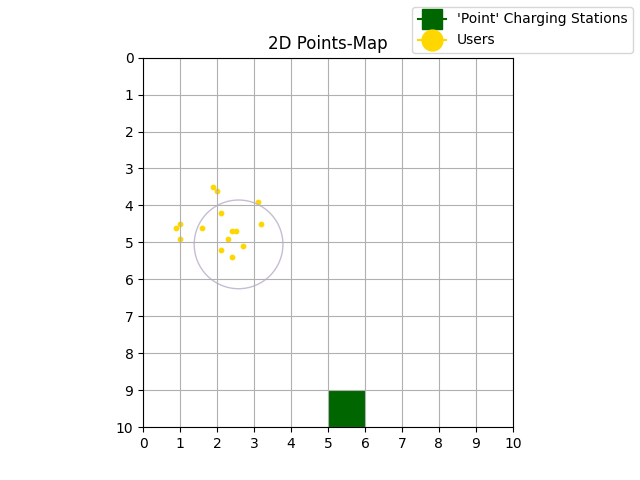
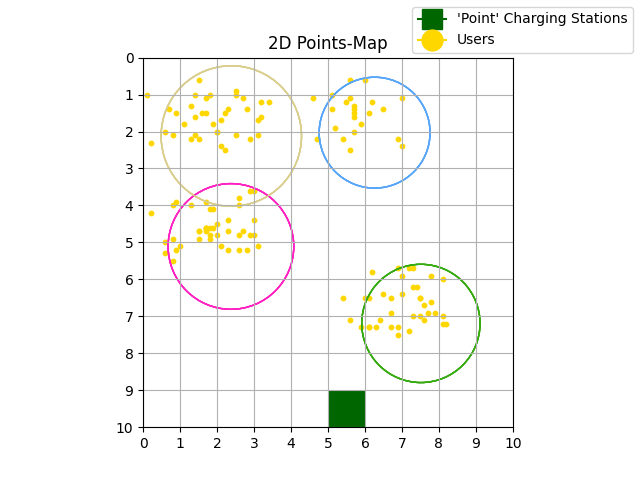
Update

diff --git a/scenario_objects.py b/scenario_objects.py
@@ -1028,7 +1028,7 @@ if __name__ == '__main__':
 
     us = User
     centroids = us.centroids_user_cluster_generation(CENTROIDS_MIN_MAX_COORDS, FIXED_CLUSTERS_NUM) # --> You can change these arguments to get clusters spread out in a different way
-    users_clusters, users_xy = us.spread_users_around_clusters(centroids, 1, 1, 8, 16) # --> # --> You can change these arguments to get users spread out in a different way among clusters; you can change also the MIN and MAX users number per cluster
+    users_clusters, users_xy = us.spread_users_around_clusters(centroids, 1, 1, 10, 50) # --> # --> You can change these arguments to get users spread out in a different way among clusters; you can change also the MIN and MAX users number per cluster
     occurrences = [users_xy.count(user) for user in users_xy]
     users_points_heights = us.users_heights(points_matrix, users_xy)
     n_users = len(users_xy)
@@ -1077,7 +1077,7 @@ if __name__ == '__main__':
     # ______________________________________________________________________________________________________________
 
     print("Scenario created.")
-    print("ABBIAMO ", len(obs_points), "OSTACOLI")
+    print("We Have Created ", len(obs_points), "Obstacles")
     
     # ___________________________________________ Directory Creation and Saving: ___________________________________________
 

diff --git a/my_utils.py b/my_utils.py
@@ -56,7 +56,7 @@ PERC_BATTERY_CHARGED_PER_IT = 20
 BATTERY_CHARGED_PER_IT = round((PERC_BATTERY_CHARGED_PER_IT*FULL_BATTERY_LEVEL)/100)
 #PERC_CONSUMPTION_PER_ITERATION = STEP_REDUCTION_TO_GO_TO_CS
 PERC_BATTERY_TO_GO_TO_CS = int(PERC_CONSUMPTION_PER_ITERATION/4) # --> 4/4 = 1
-N_UAVS = 1
+N_UAVS = 2
 PERC_CONSUMPTION_IF_HOVERING = 2
 
 PROPULSION_BATTERY_CONSUMPTION = 3.33
@@ -338,10 +338,10 @@ DATA_GATHERING = 3
 UAVS_SERVICES = [NO_SERVICE, THROUGHPUT_REQUEST, EDGE_COMPUTING, DATA_GATHERING]
 SERVICE_PROBABILITIES = [0.1, 0.5, 0.25, 0.15]
 
-#CENTROIDS_MIN_MAX_COORDS = [[(2,2), (5, 5)], [(7, 7), (7,7)], [(6, 6), (2,2)], [(2, 2), (2,2)]] # --> [(min_x, max_x), (min_y, max_y)]
+CENTROIDS_MIN_MAX_COORDS = [[(2,2), (5, 5)], [(7, 7), (7,7)], [(6, 6), (2,2)], [(2, 2), (2,2)]] # --> [(min_x, max_x), (min_y, max_y)]
 #CENTROIDS_MIN_MAX_COORDS = [[(7, 7), (7,7)], [(6, 6), (2,2)], [(2, 2), (2,2)]] # [[(7, 7), (7,7)], [(2, 2), (2,2)]]
 #CENTROIDS_MIN_MAX_COORDS = [[(2,2), (5, 5)], [(7, 7), (7,7)]]
-CENTROIDS_MIN_MAX_COORDS = [[(2,2), (5, 5)]]
+#CENTROIDS_MIN_MAX_COORDS = [[(2,2), (5, 5)]]
 FIXED_CLUSTERS_NUM = len(CENTROIDS_MIN_MAX_COORDS)
 # LIST OF THE NUMBER OF CLUSTERS TO TEST WHEN LOOKING FOR THE OPTIMAL NUMBER OF USERS CLUSTERS:
 CLUSTERS_NUM_TO_TEST = [3, 4, 5, 6, 7, 8, 9, 10]
